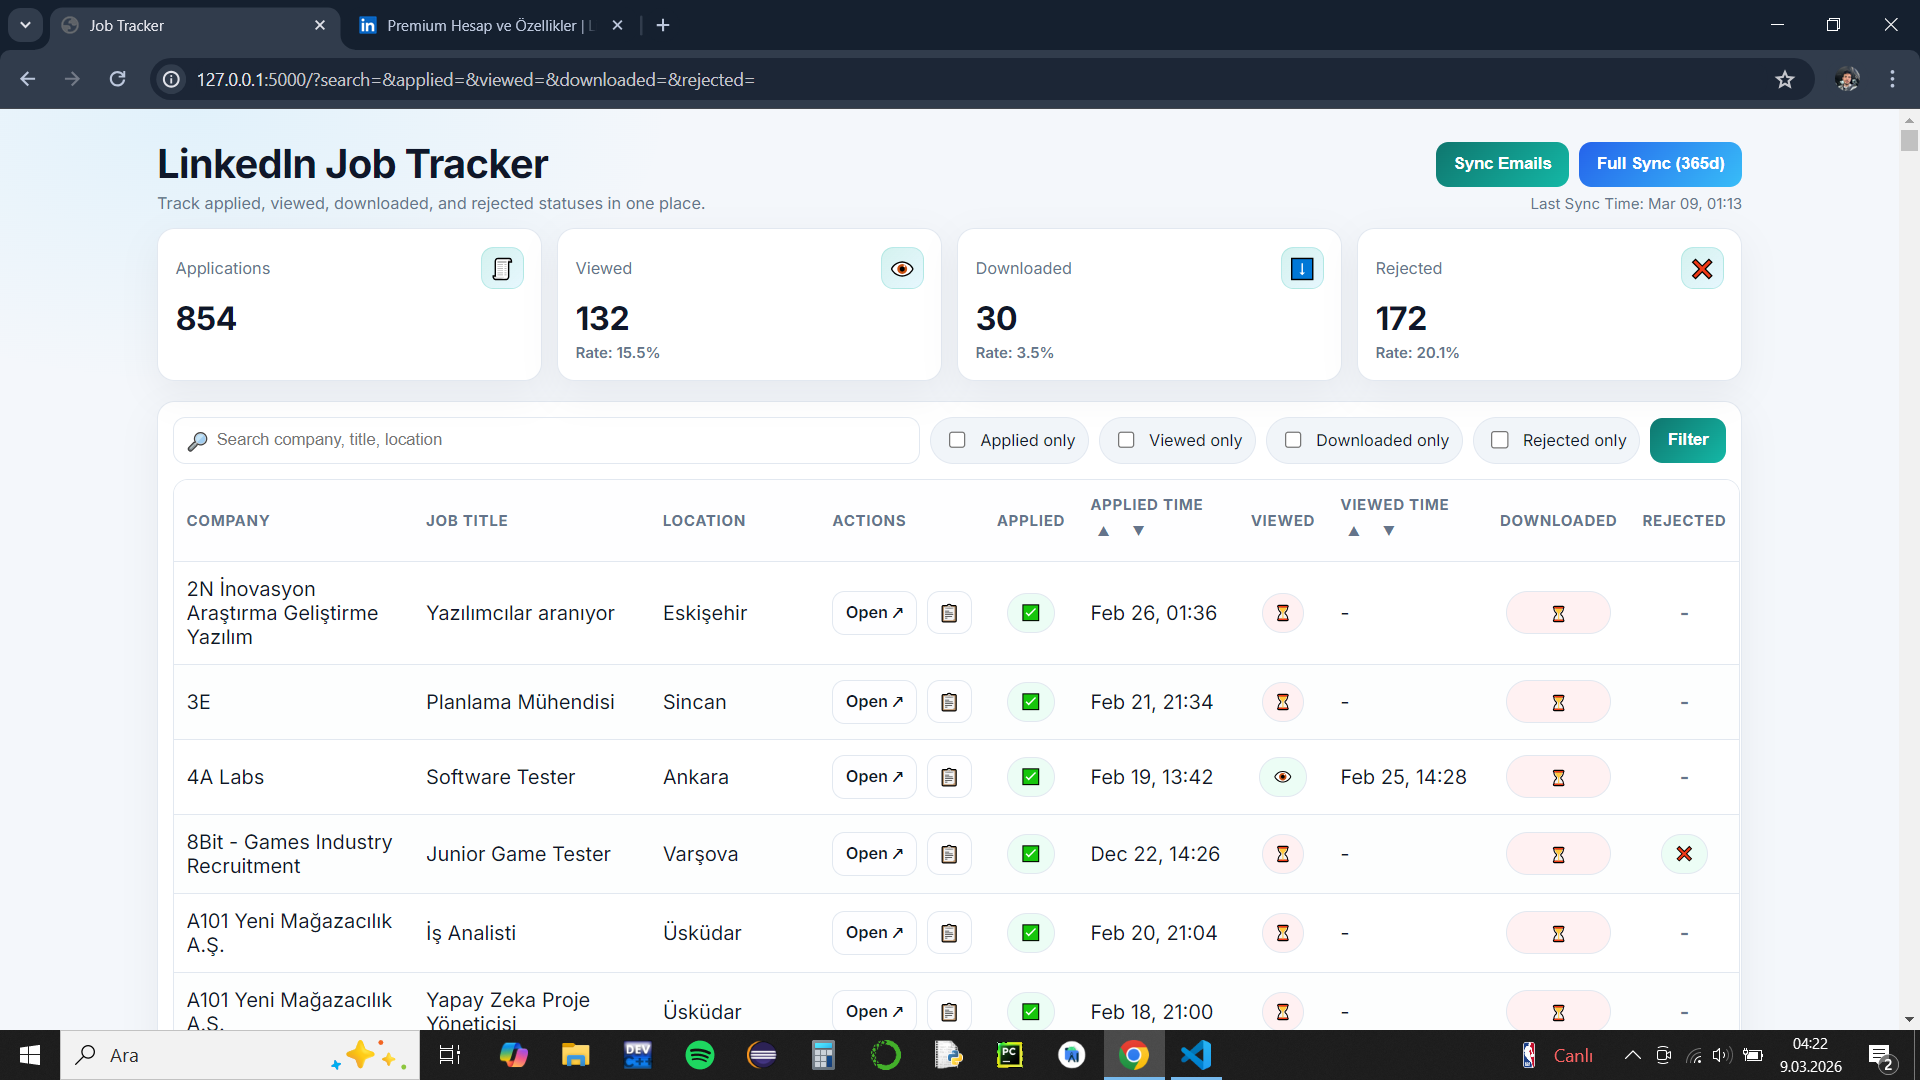
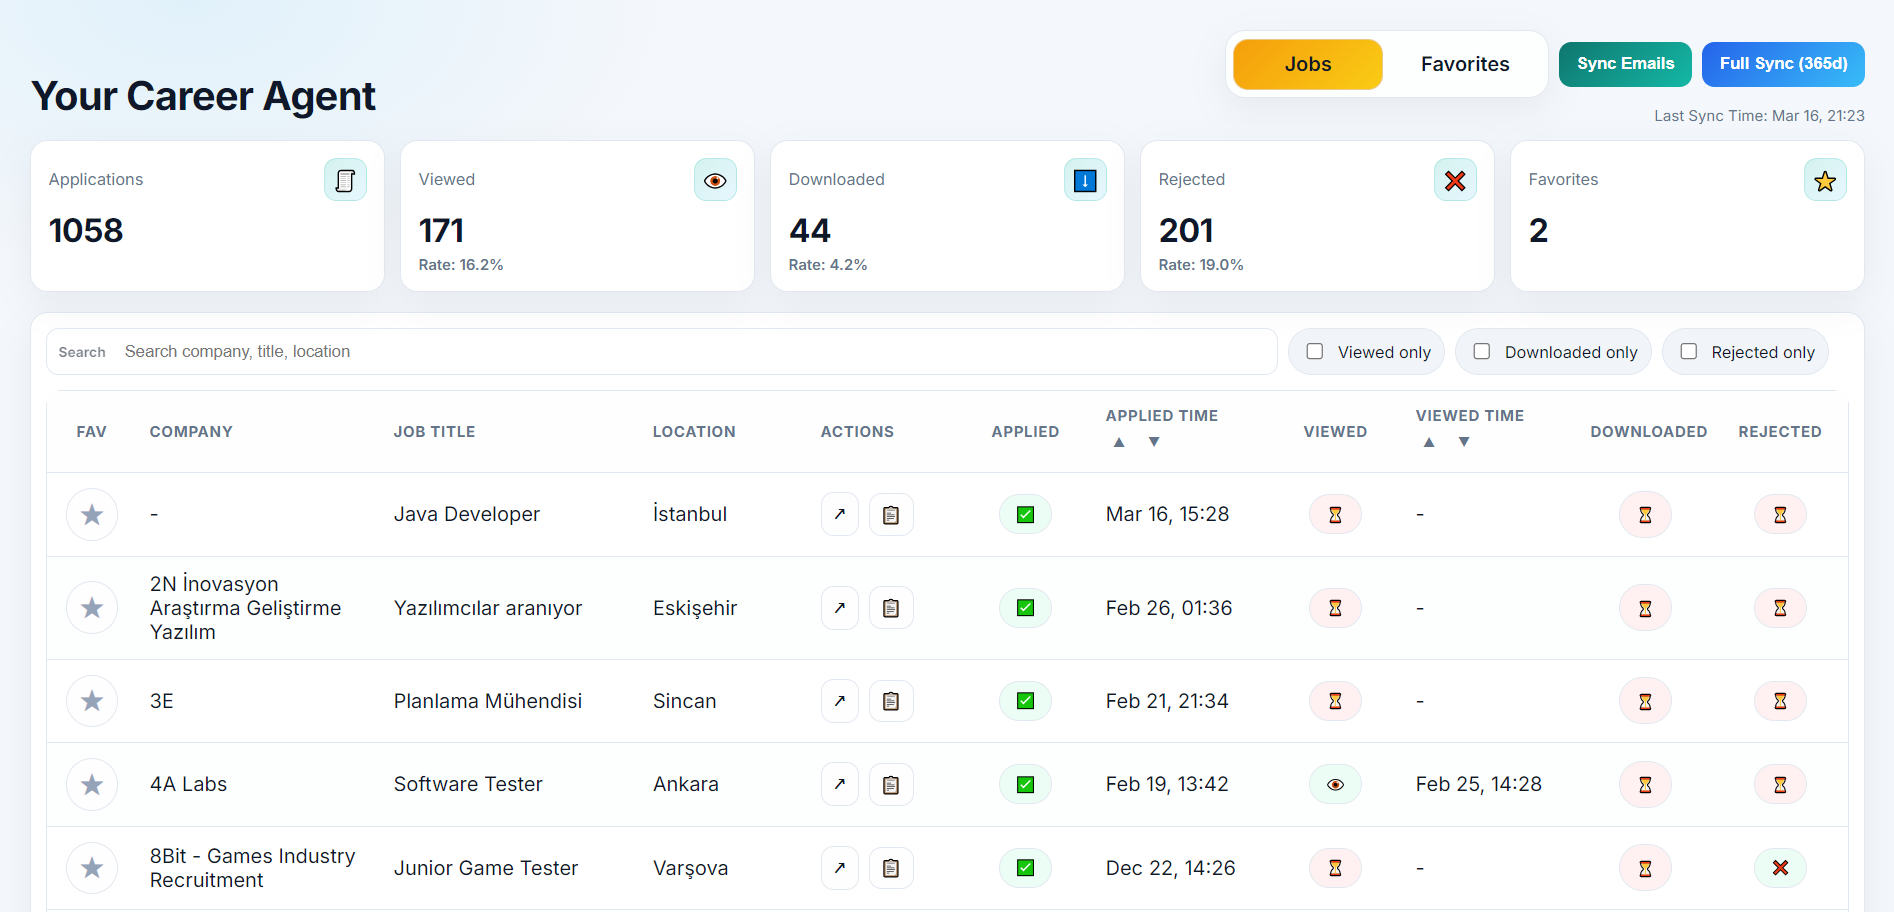
feat: improve dashboard UX with live filters and responsive table layout

diff --git a/templates/dashboard.html b/templates/dashboard.html
@@ -3,7 +3,7 @@
   <head>
     <meta charset="utf-8">
     <meta name="viewport" content="width=device-width, initial-scale=1">
-    <title>Job Tracker</title>
+    <title>Your Career Agent</title>
 
     <link rel="preconnect" href="https://fonts.googleapis.com">
     <link rel="preconnect" href="https://fonts.gstatic.com" crossorigin>
@@ -57,9 +57,20 @@
       }
 
       .wrap {
-        max-width: 1300px;
+        max-width: 1500px;
         margin: 24px auto;
         padding: 0 16px;
+      }
+
+      .pageSwitch {
+        display: inline-flex;
+        align-items: center;
+        gap: 6px;
+        padding: 6px;
+        border: 1px solid var(--line);
+        border-radius: 16px;
+        background: color-mix(in srgb, var(--card) 88%, var(--chip));
+        box-shadow: var(--shadow);
       }
 
       .top {
@@ -83,13 +94,16 @@
       .syncModeBtn { background: linear-gradient(135deg, #2563eb, #38bdf8); }
       .syncBtn { text-decoration: none; display: inline-flex; align-items: center; }
       .navBtn {
-        padding: 10px 14px;
-        border-radius: 10px;
-        border: 1px solid var(--line);
-        background: color-mix(in srgb, var(--card) 92%, var(--chip));
+        min-width: 120px;
+        padding: 10px 18px;
+        border-radius: 12px;
+        border: 1px solid transparent;
+        background: transparent;
         color: var(--text);
         text-decoration: none;
         font-weight: 600;
+        text-align: center;
+        transition: background .15s ease, color .15s ease, border-color .15s ease;
       }
       .navBtn.active {
         background: linear-gradient(135deg, #f59e0b, #facc15);
@@ -271,11 +285,18 @@
         cursor: pointer;
       }
 
+      .tableWrap {
+        width: 100%;
+        overflow-x: auto;
+        border-radius: 12px;
+      }
+
       table {
         width: 100%;
         border-collapse: separate;
         border-spacing: 0;
-        overflow: hidden;
+        table-layout: fixed;
+        min-width: 1260px;
         border-radius: 12px;
         border: 1px solid var(--line);
       }
@@ -285,11 +306,16 @@
         padding: 12px 10px;
         text-align: left;
         vertical-align: middle;
+        overflow-wrap: anywhere;
       }
       .nowrap { white-space: nowrap; }
-      .col-time { width: 150px; }
+      .col-company { width: 16%; }
+      .col-title { width: 17%; }
+      .col-location { width: 11%; }
+      .col-actions { width: 120px; }
+      .col-time { width: 140px; }
       .col-favorite { width: 72px; text-align: center; }
-      .col-status { width: 120px; text-align: center; }
+      .col-status { width: 108px; text-align: center; }
 
       th {
         font-size: 12px;
@@ -300,6 +326,7 @@
         position: sticky;
         top: 0;
         z-index: 1;
+        white-space: nowrap;
       }
 
       .sort {
@@ -365,6 +392,15 @@
         display: flex;
         gap: 8px;
         align-items: center;
+      }
+
+      .statusCell {
+        text-align: center;
+      }
+
+      .statusCell .badge,
+      .statusCell .downloadToggle {
+        min-width: 42px;
       }
 
       .btnLink {
@@ -471,6 +507,14 @@
       @media (max-width: 960px) {
         .cards { grid-template-columns: repeat(2, minmax(0, 1fr)); }
         form { grid-template-columns: 1fr; }
+        .pageSwitch {
+          display: flex;
+          width: 100%;
+        }
+        .navBtn {
+          flex: 1 1 0;
+          min-width: 0;
+        }
         .topActions { width: 100%; align-items: stretch; }
         .syncButtons { width: 100%; }
         .syncButtons form { width: 100%; }
@@ -489,8 +533,10 @@
         </div>
         <div class="topActions">
           <div class="syncButtons">
-            <a class="navBtn {% if not favorites_only %}active{% endif %}" href="/">Jobs</a>
-            <a class="navBtn {% if favorites_only %}active{% endif %}" href="/favorites">Favorites</a>
+            <div class="pageSwitch" role="tablist" aria-label="Page switcher">
+              <a class="navBtn {% if not favorites_only %}active{% endif %}" href="/">Jobs</a>
+              <a class="navBtn {% if favorites_only %}active{% endif %}" href="/favorites">Favorites</a>
+            </div>
             <form id="syncForm" method="post" action="/sync">
               <input type="hidden" name="sync_mode" value="incremental">
               <button id="syncBtn" type="submit" class="syncBtn">Sync Emails</button>
@@ -555,26 +601,25 @@
             Sync completed ({{ sync_mode }}). Processed: {{ processed }}, Skipped: {{ skipped }}.
           </div>
         {% endif %}
-        <form method="get">
+        <form method="get" id="filterForm">
           <div class="searchBox">
-            <input type="text" name="search" value="{{ search }}" placeholder="Search company, title, location">
+            <input type="text" name="search" value="{{ search }}" placeholder="Search company, title, location" data-live-search>
           </div>
 
-          <label><input type="checkbox" name="applied" value="1" {% if applied_only %}checked{% endif %}> Applied only</label>
-          <label><input type="checkbox" name="viewed" value="1" {% if viewed_only %}checked{% endif %}> Viewed only</label>
-          <label><input type="checkbox" name="downloaded" value="1" {% if downloaded_only %}checked{% endif %}> Downloaded only</label>
-          <label><input type="checkbox" name="rejected" value="1" {% if rejected_only %}checked{% endif %}> Rejected only</label>
-          <button type="submit">Filter</button>
+          <label><input type="checkbox" name="viewed" value="1" {% if viewed_only %}checked{% endif %} data-live-filter> Viewed only</label>
+          <label><input type="checkbox" name="downloaded" value="1" {% if downloaded_only %}checked{% endif %} data-live-filter> Downloaded only</label>
+          <label><input type="checkbox" name="rejected" value="1" {% if rejected_only %}checked{% endif %} data-live-filter> Rejected only</label>
         </form>
 
+        <div class="tableWrap">
         <table>
           <thead>
             <tr>
               <th class="col-favorite">Fav</th>
-              <th>Company</th>
-              <th>Job Title</th>
-              <th>Location</th>
-              <th>Actions</th>
+              <th class="col-company">Company</th>
+              <th class="col-title">Job Title</th>
+              <th class="col-location">Location</th>
+              <th class="col-actions">Actions</th>
               <th class="col-status">Applied</th>
               <th class="col-time">
                 <span class="thStack">
@@ -630,11 +675,11 @@
                     aria-label="{% if r.favorite %}Remove from favorites{% else %}Add to favorites{% endif %}"
                   >&#9733;</button>
                 </td>
-                <td>{{ r.company }}</td>
-                <td>{{ r.job_title }}</td>
-                <td>{{ r.location or '-' }}</td>
+                <td class="col-company">{{ r.company }}</td>
+                <td class="col-title">{{ r.job_title }}</td>
+                <td class="col-location">{{ r.location or '-' }}</td>
 
-                <td>
+                <td class="col-actions">
                   {% if r.job_url %}
                     <div class="actions">
                       <a class="btnLink" href="{{ r.job_url }}" target="_blank" rel="noopener noreferrer">↗</a>
@@ -645,7 +690,7 @@
                   {% endif %}
                 </td>
 
-                <td class="col-status">
+                <td class="col-status statusCell">
                   {% if r.applied %}
                     <span class="badge ok">✅</span>
                   {% else %}
@@ -654,7 +699,7 @@
                 </td>
                 <td class="nowrap">{{ r.applied_time_fmt }}</td>
 
-                <td class="col-status">
+                <td class="col-status statusCell">
                   {% if r.viewed %}
                     <span class="badge ok">👁</span>
                   {% else %}
@@ -663,7 +708,7 @@
                 </td>
                 <td class="nowrap">{{ r.viewed_time_fmt or '-' }}</td>
 
-                <td class="col-status">
+                <td class="col-status statusCell">
                   <button
                     type="button"
                     class="downloadToggle {% if r.downloaded %}on{% endif %}"
@@ -677,7 +722,7 @@
                   </button>
                 </td>
 
-                <td class="col-status">
+                <td class="col-status statusCell">
                   {% if r.rejected %}
                     <span class="badge ok">❌</span>
                   {% else %}
@@ -692,6 +737,7 @@
             {% endfor %}
           </tbody>
         </table>
+        </div>
       </div>
     </div>
 
@@ -713,6 +759,9 @@
       const syncFullForm = document.getElementById("syncFullForm");
       const syncFullBtn = document.getElementById("syncFullBtn");
       const syncOverlay = document.getElementById("syncOverlay");
+      const filterForm = document.getElementById("filterForm");
+      const liveSearchInput = document.querySelector("[data-live-search]");
+      const liveFilterInputs = document.querySelectorAll("[data-live-filter]");
 
       function showToast(msg) {
         toast.textContent = msg;
@@ -720,6 +769,34 @@
         clearTimeout(showToast._t);
         showToast._t = setTimeout(() => toast.classList.remove("show"), 1200);
       }
+
+      function submitFilterForm() {
+        if (!filterForm) return;
+        if (typeof filterForm.requestSubmit === "function") {
+          filterForm.requestSubmit();
+          return;
+        }
+        filterForm.submit();
+      }
+
+      if (liveSearchInput) {
+        let searchTimer;
+        liveSearchInput.addEventListener("input", () => {
+          clearTimeout(searchTimer);
+          searchTimer = setTimeout(() => submitFilterForm(), 250);
+        });
+
+        window.addEventListener("pageshow", () => {
+          if (!liveSearchInput.value) return;
+          liveSearchInput.focus();
+          const end = liveSearchInput.value.length;
+          liveSearchInput.setSelectionRange(end, end);
+        });
+      }
+
+      liveFilterInputs.forEach((input) => {
+        input.addEventListener("change", () => submitFilterForm());
+      });
 
       document.addEventListener("click", async (e) => {
         const btn = e.target.closest("[data-copy]");
@@ -759,7 +836,7 @@
           const isDownloaded = !!data.downloaded;
           btn.setAttribute("data-downloaded", isDownloaded ? "1" : "0");
           btn.classList.toggle("on", isDownloaded);
-          btn.textContent = isDownloaded ? "Downloaded" : "Pending";
+          btn.textContent = isDownloaded ? "⬇" : "⏳";
           const label = isDownloaded ? "Remove downloaded mark" : "Mark as downloaded";
           btn.setAttribute("aria-label", label);
           btn.setAttribute("title", label);

diff --git a/dashboard.py b/dashboard.py
@@ -221,12 +221,12 @@ def render_jobs_page(*, favorites_only: bool = False):
         last_sync_time_fmt=last_sync_time_fmt,
         csv_path=str(CSV_PATH),
         favorites_only=favorites_only,
-        page_title="Favorites" if favorites_only else "LinkedIn Job Tracker",
-        page_subtitle=(
-            "Starred job posts in one place."
-            if favorites_only
-            else "Track applied, viewed, downloaded, rejected, and favorite statuses in one place."
-        ),
+        page_title="Favorites" if favorites_only else "Your Career Agent",
+        # page_subtitle=(
+        #     "Starred job posts in one place."
+        #     if favorites_only
+        #     else "Track applied, viewed, downloaded, rejected, and favorite statuses in one place."
+        # ),
         current_path="/favorites" if favorites_only else "/",
         sort=sort,
         order=order,
